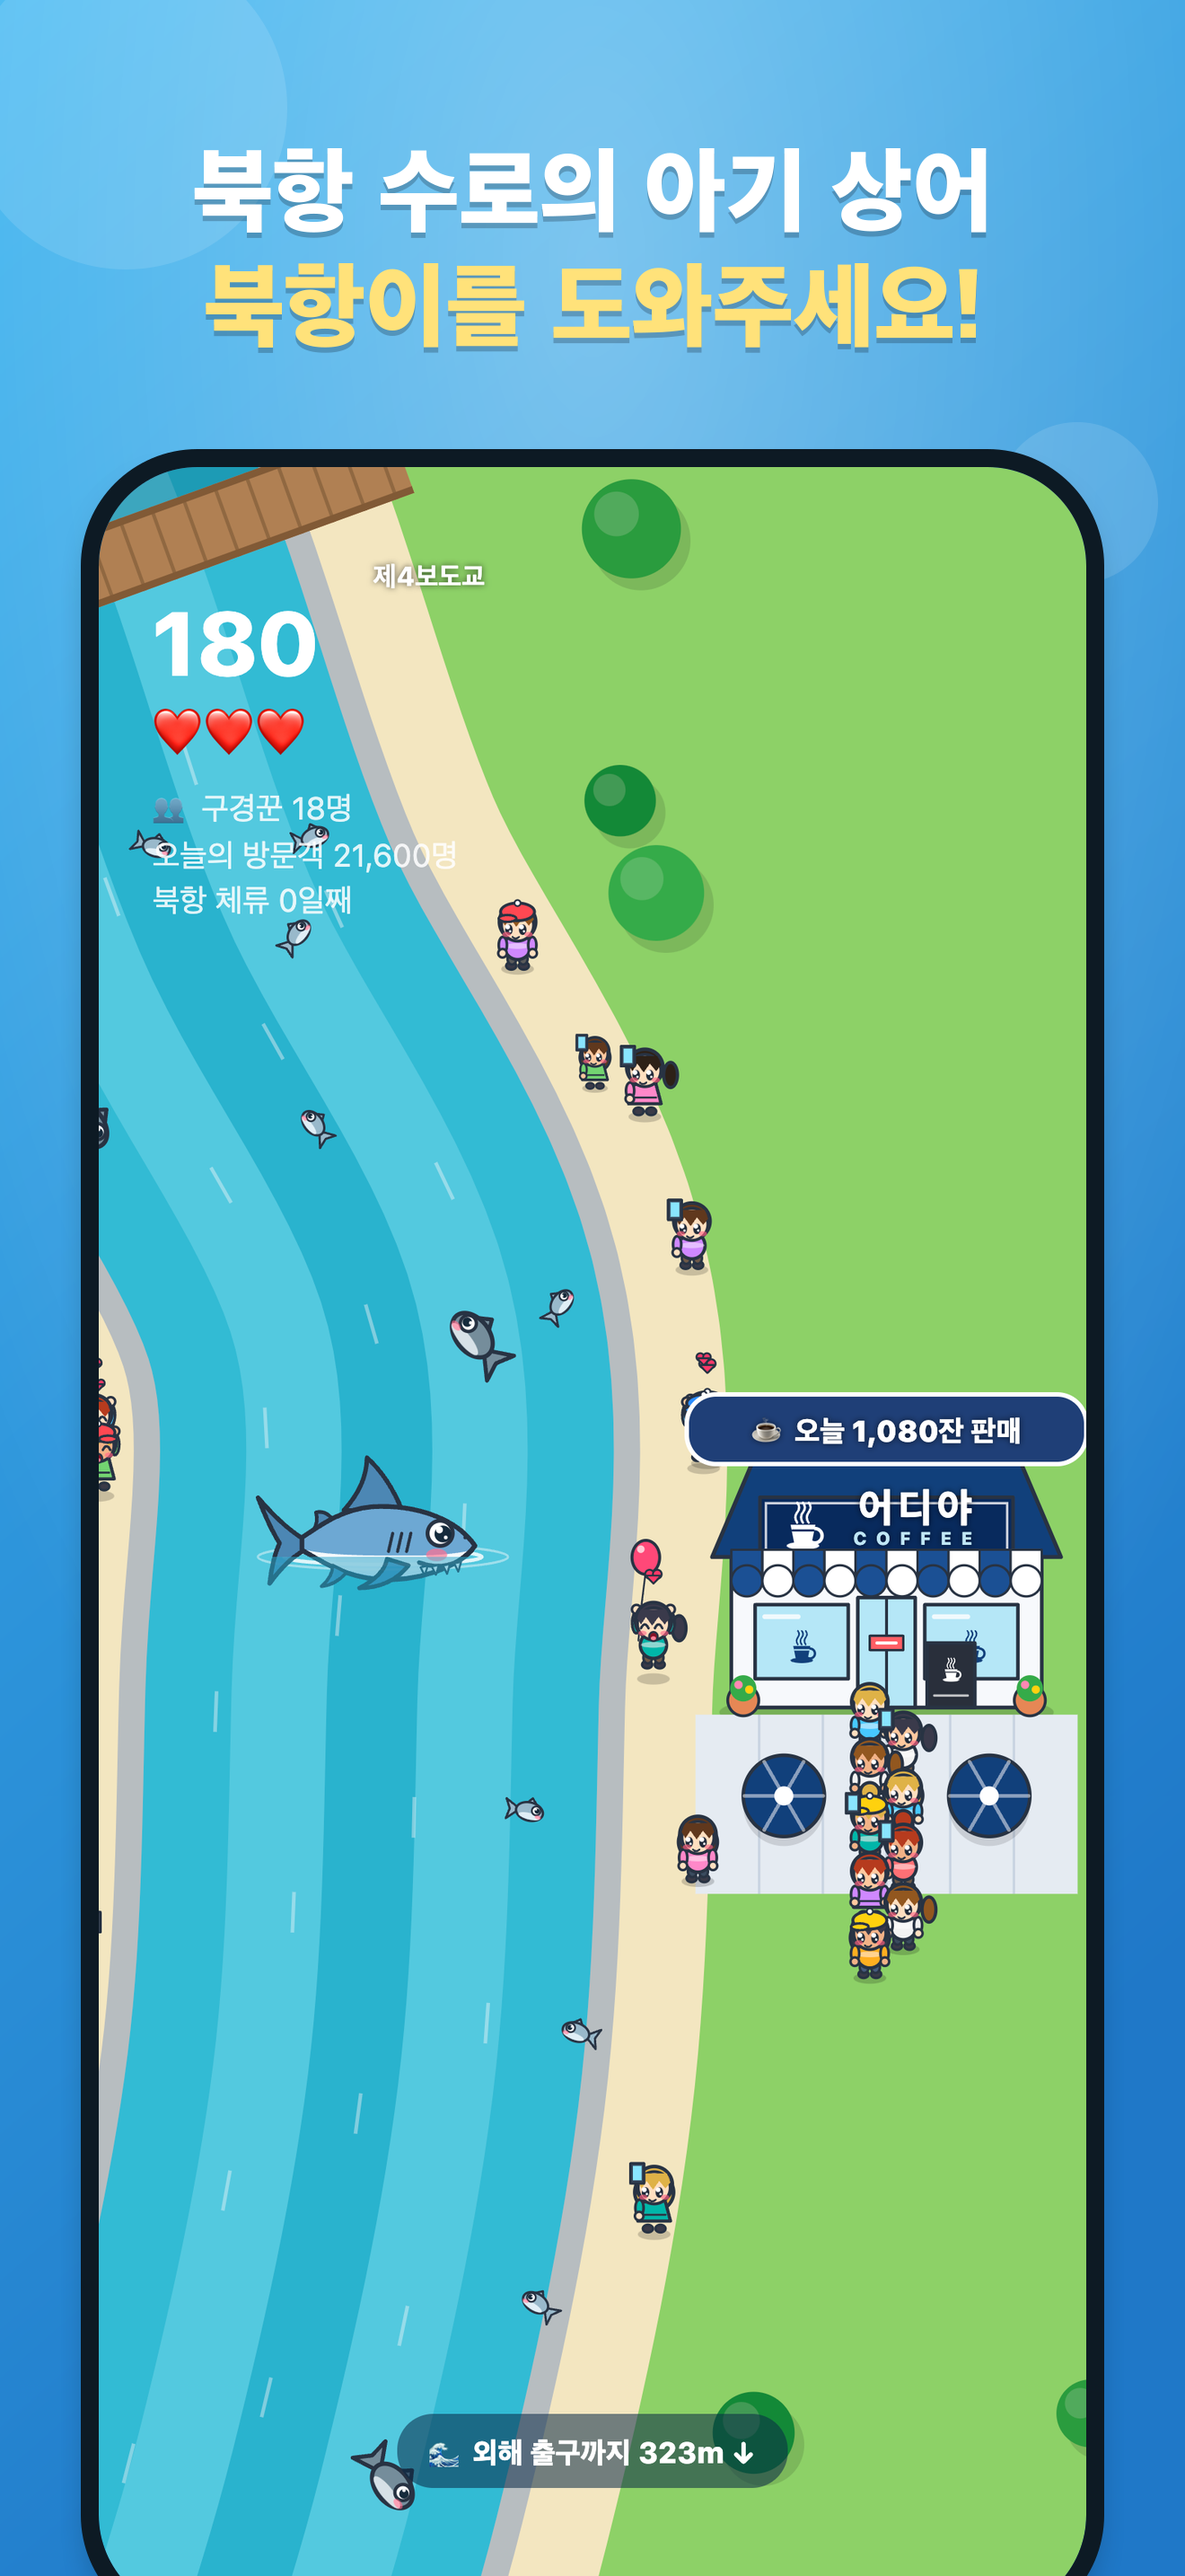
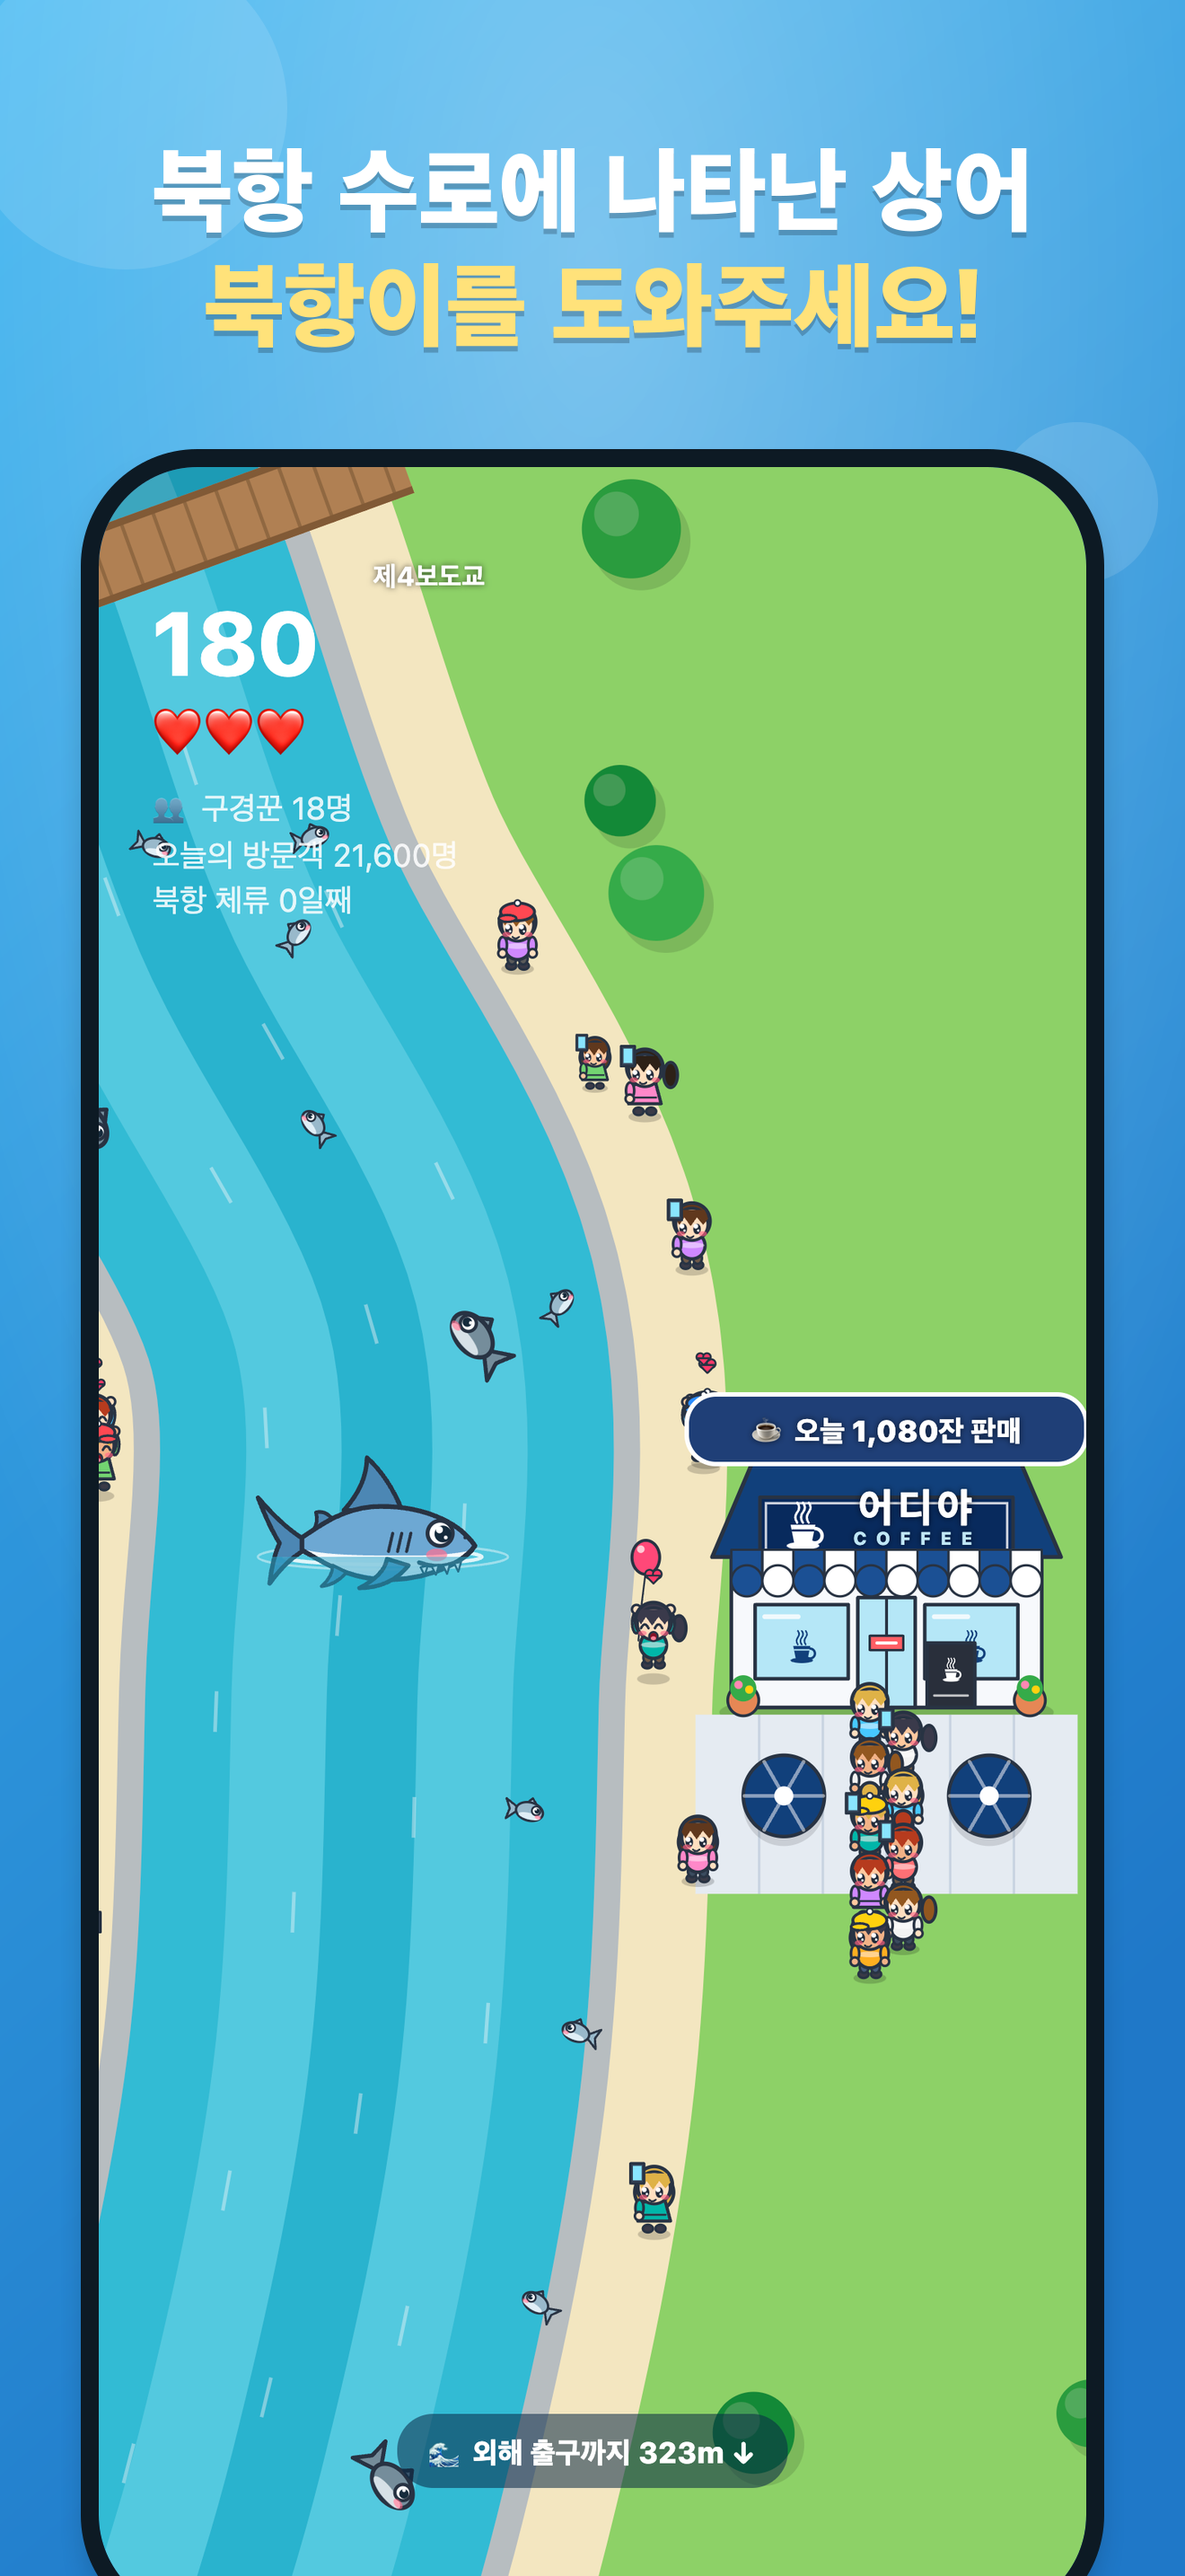
Replace 'baby shark' wording with 'shark', add Play Store assets

Changed region(s): [[0.1242, 0.0621, 0.8697, 0.0931]]

diff --git a/src/game/sprites.ts b/src/game/sprites.ts
@@ -34,7 +34,7 @@ function poly(canvas: SkCanvas, pts: [number, number][], color: string, ow = 3) 
 const clamp = (v: number, lo: number, hi: number) => Math.min(hi, Math.max(lo, v));
 
 // ---------------------------------------------------------------------------
-// 상어 "북항이": 옆모습이 둥글둥글한 아기 상어. 이동 방향에 따라 좌우로 뒤집힌다.
+// 상어 "북항이": 옆모습이 귀여운 상어. 이동 방향에 따라 좌우로 뒤집힌다.
 // ---------------------------------------------------------------------------
 // 북항이: 상어 본연의 유선형 몸매에 큰 눈과 미소를 더한 귀여운 상어.
 // 뾰족한 주둥이, 회청색 등과 흰 배, 삼각 등지느러미, 초승달 꼬리, 아가미 줄무늬, 이빨이 특징이다.

diff --git a/src/components/GameScreen.tsx b/src/components/GameScreen.tsx
@@ -372,7 +372,7 @@ export default function GameScreen() {
         <View style={[styles.overlay, styles.titleOverlay]}>
           <Text style={styles.titleEmoji}>🦈</Text>
           <Text style={styles.titleName}>북항이</Text>
-          <Text style={styles.titleSub}>북항 친수공원 수로에 갇힌 아기 상어{'\n'}배고픈 북항이를 도와주세요!</Text>
+          <Text style={styles.titleSub}>북항 친수공원 수로에 들어온 상어{'\n'}배고픈 북항이를 도와주세요!</Text>
           <View style={styles.howto}>
             <Text style={styles.howtoGoal}>🎯 목표: 높은 점수를 모으고 바다로 탈출하기!</Text>
             <Text style={styles.howtoLine}>👆 화면을 누른 채 드래그하면 북항이가 움직여요</Text>
